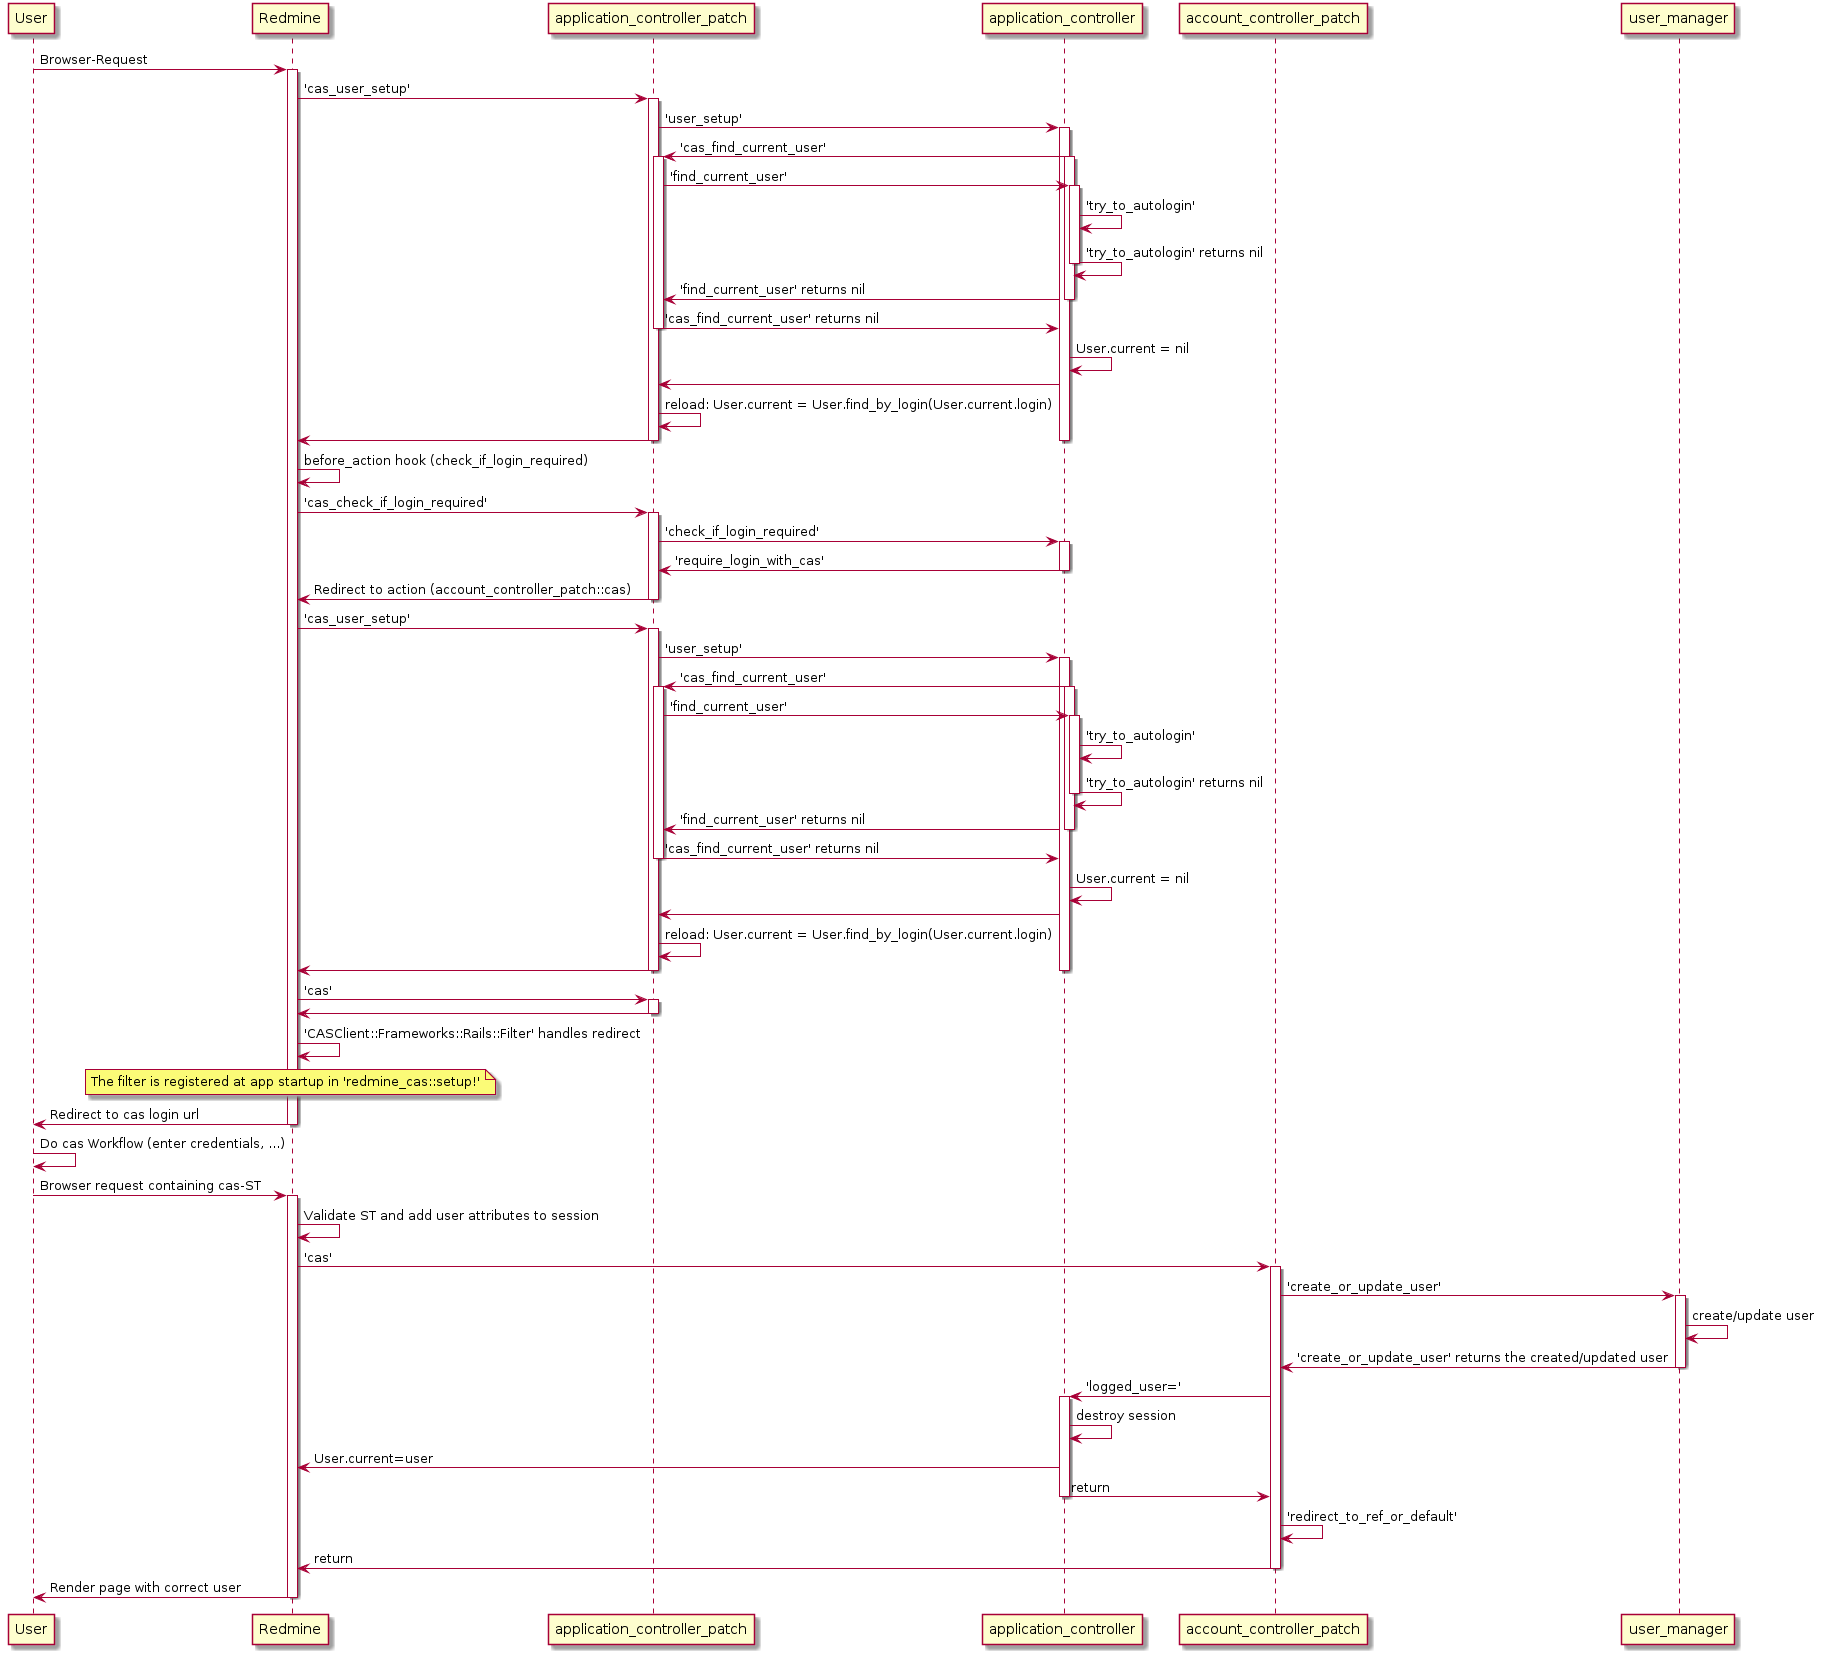
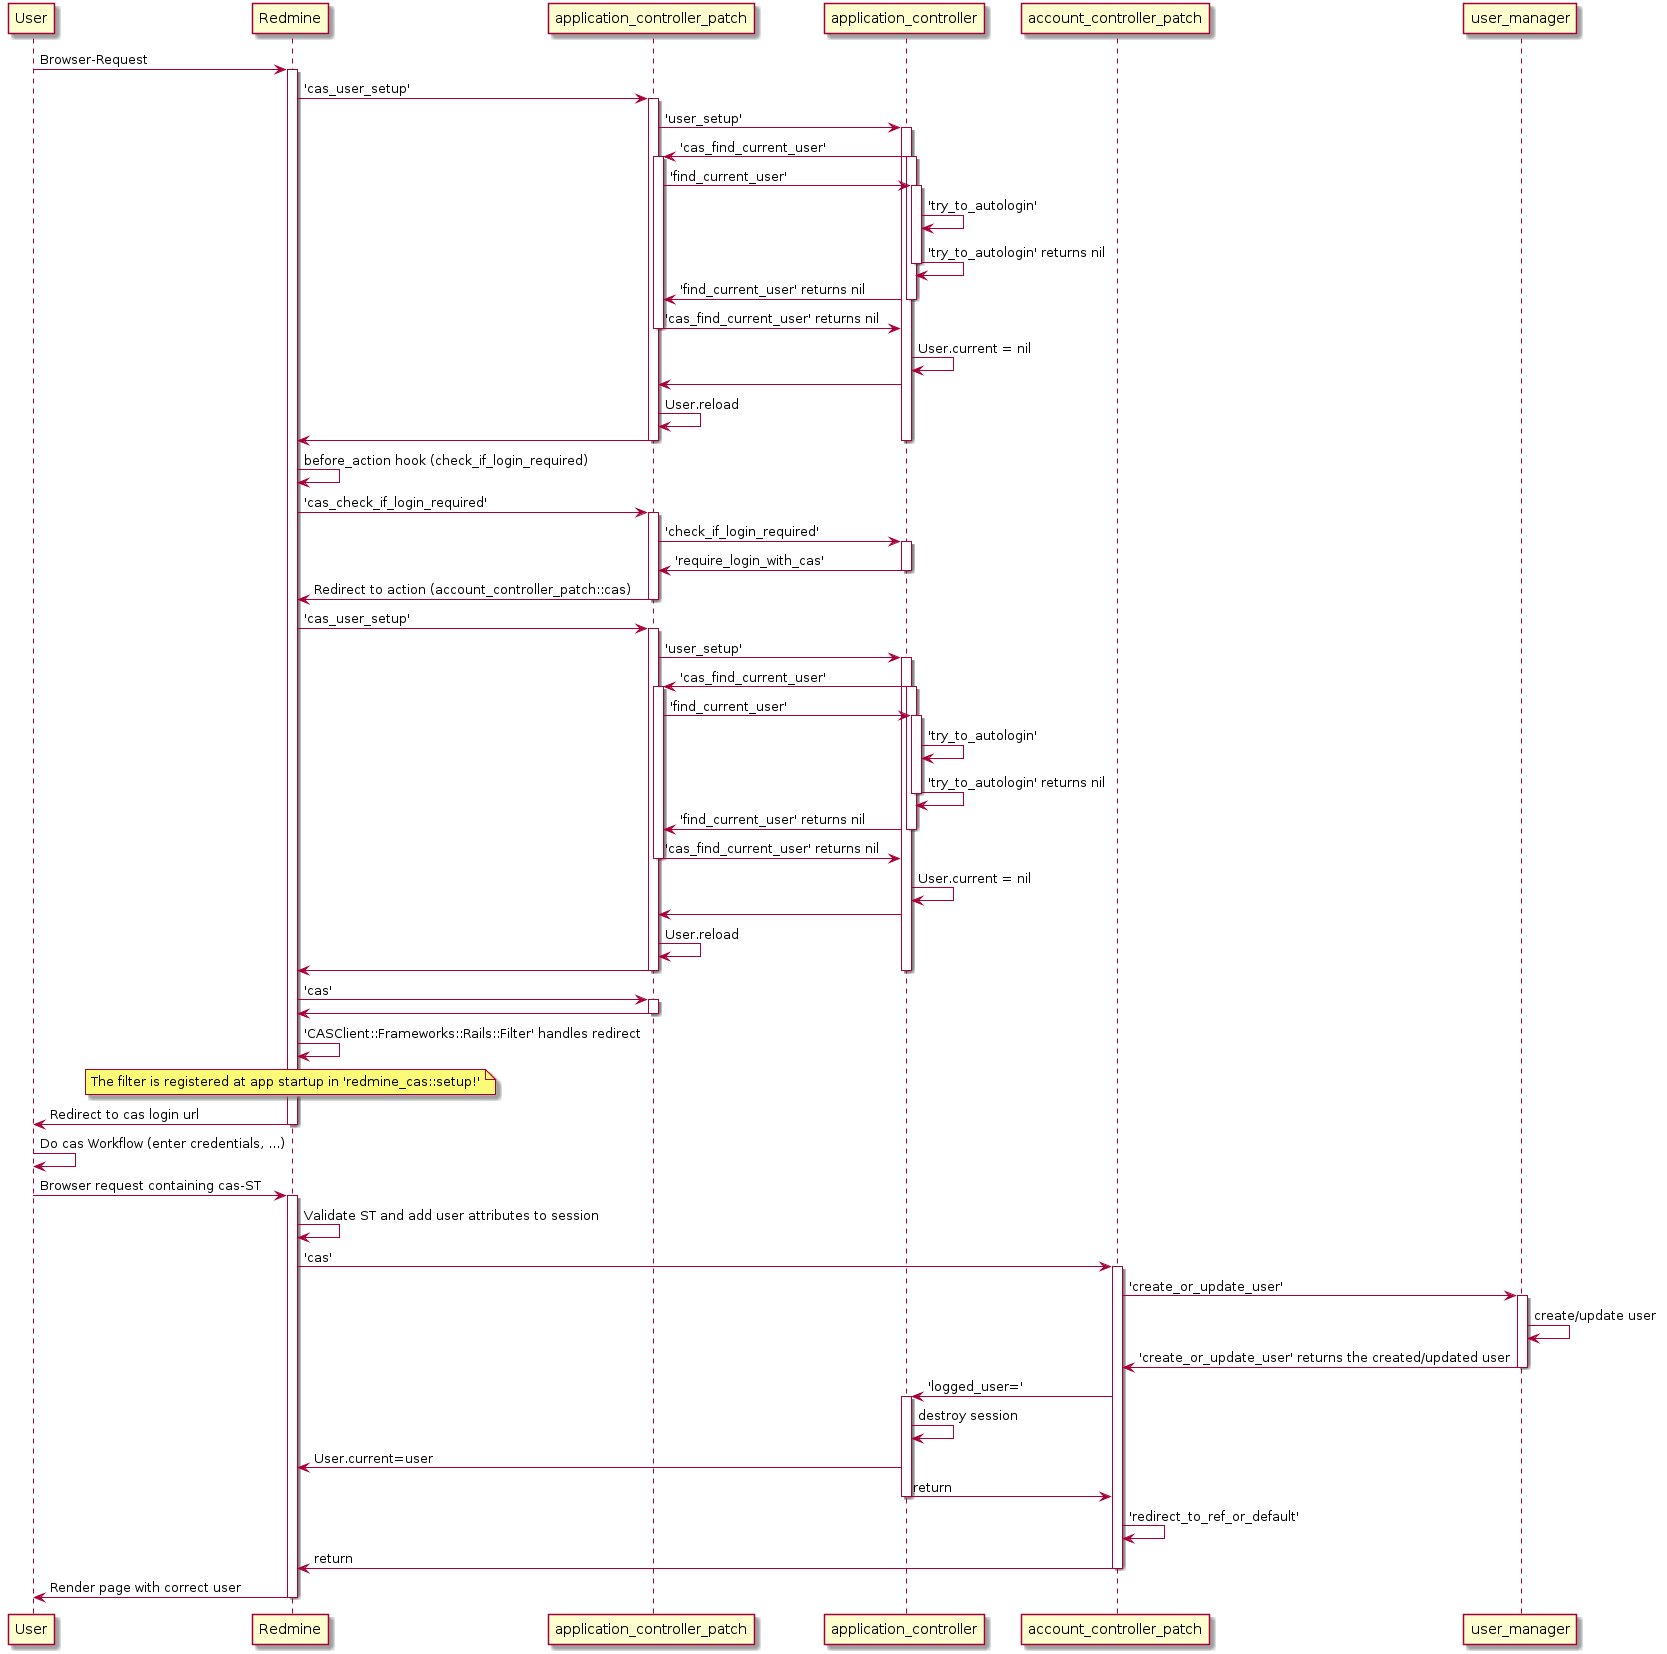
#21 Revert mechanism to reload user

diff --git a/src/lib/redmine_cas/application_controller_patch.rb b/src/lib/redmine_cas/application_controller_patch.rb
@@ -25,8 +25,7 @@ module RedmineCAS
       def cas_user_setup
         original_user_setup
         # reload user data so the updated group information will be took into account
-        # in some cases the call to 'user.reload' ran into errors so we now use this mechanism to make sure it works.
-        User.current = User.find_by_login(User.current.login)
+        User.current.reload
       end
 
       def cas_find_current_user
